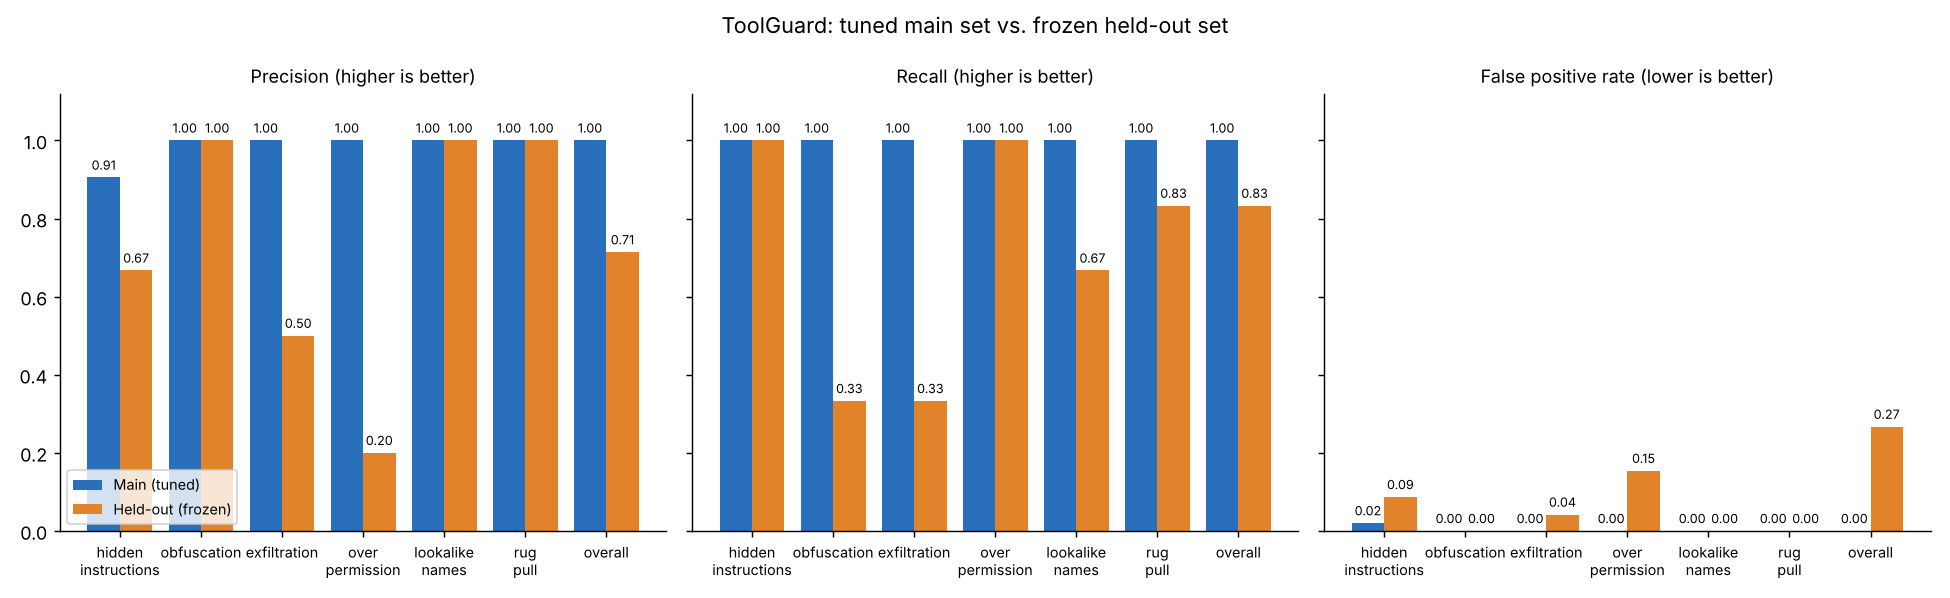
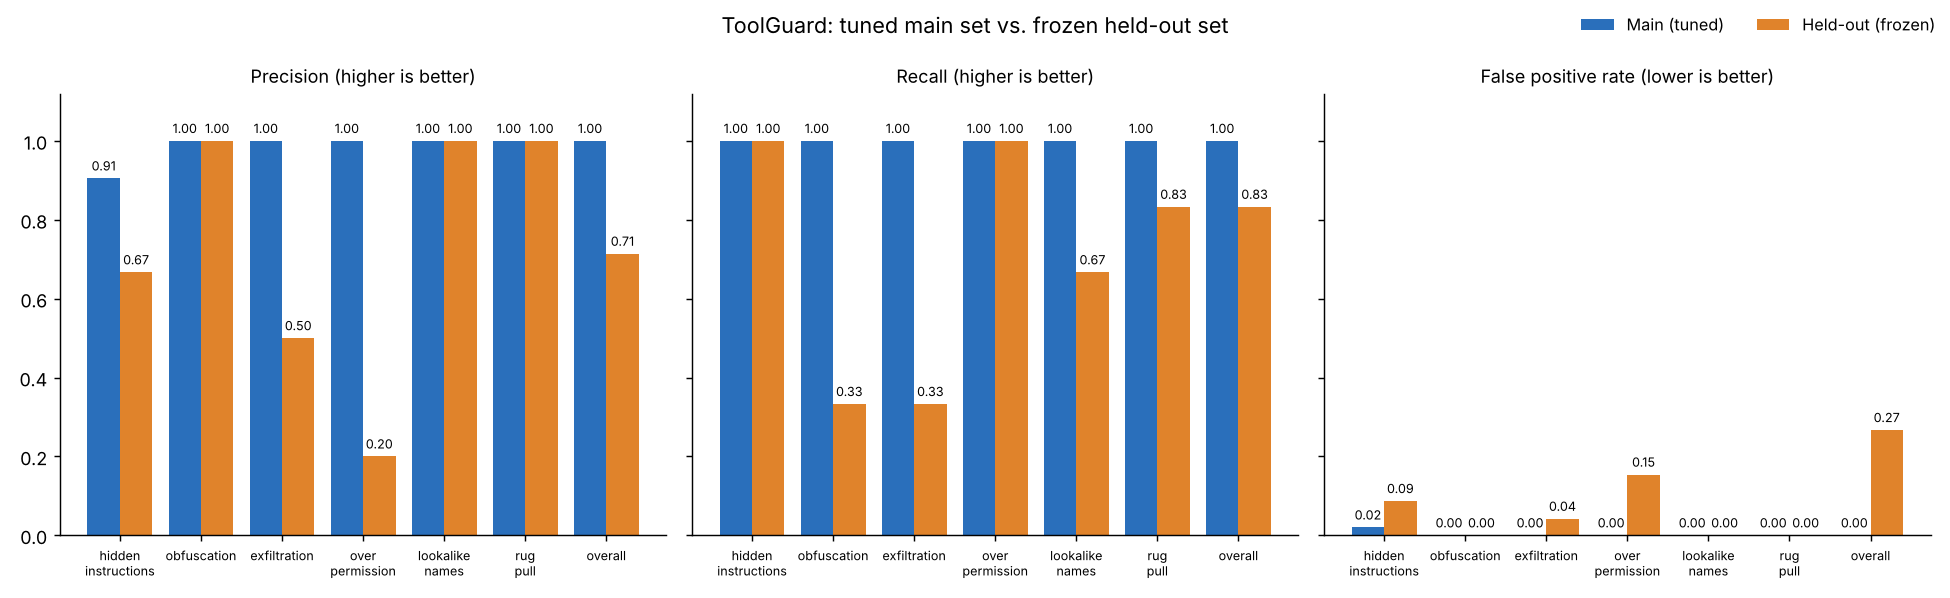
M7: Streamlit app (scanner, rug-pull demo, results)
Claude-Session: https://claude.ai/code/session_01NrWAax3T78agCETAbURUrn

diff --git a/app/streamlit_app.py b/app/streamlit_app.py
@@ -1,0 +1,138 @@
+"""ToolGuard web app.  Run:  streamlit run app/streamlit_app.py"""
+import html
+import json
+import sys
+from pathlib import Path
+
+import pandas as pd
+import streamlit as st
+
+ROOT = Path(__file__).resolve().parent.parent
+sys.path.insert(0, str(ROOT))
+
+from toolguard.checks import reveal  # noqa: E402
+from toolguard.loader import parse_server  # noqa: E402
+from toolguard.lockfile import create_lock  # noqa: E402
+from toolguard.scoring import scan_server  # noqa: E402
+
+BADGE = {"Low": "🟢", "Medium": "🟡", "High": "🔴"}
+SEV_ICON = {"low": "🟢", "medium": "🟡", "high": "🔴"}
+
+st.set_page_config(page_title="ToolGuard", page_icon="🛡", layout="wide")
+
+
+def highlight(text: str, evidence: list[str]) -> str:
+    """HTML-escape text (invisible characters made visible) and wrap evidence in <mark>."""
+    shown = reveal(text)
+    spans = []
+    for ev in evidence:
+        ev = reveal(ev)
+        start = shown.find(ev) if ev else -1
+        if start >= 0:
+            spans.append((start, start + len(ev)))
+    out, pos = [], 0
+    for start, end in sorted(spans):
+        if start < pos:
+            continue
+        out.append(html.escape(shown[pos:start]))
+        out.append(f"<mark>{html.escape(shown[start:end])}</mark>")
+        pos = end
+    out.append(html.escape(shown[pos:]))
+    return "<div style='white-space:pre-wrap'>" + "".join(out) + "</div>"
+
+
+def show_findings(tool, report):
+    for location, text in tool.texts():
+        evidence = [f.evidence for f in report.findings if f.location == location and f.evidence]
+        if evidence:
+            st.markdown(f"**{location}**")
+            st.markdown(highlight(text, evidence), unsafe_allow_html=True)
+    for f in report.findings:
+        st.markdown(f"{SEV_ICON[f.severity]} **{f.check.replace('_', ' ')}** ({f.severity}) - {f.reason}")
+        if f.check == "rug_pull" and f.evidence:
+            st.code(f.evidence, language="diff")
+
+
+def show_server(server, lock=None):
+    report = scan_server(server, lock)
+    c1, c2, c3 = st.columns(3)
+    c1.metric("Server risk", f"{BADGE[report.level]} {report.level}")
+    c2.metric("Score", f"{report.score:.1f} / 10")
+    c3.metric("Tools flagged", sum(1 for t in report.tools if t.level != "Low"))
+    by_name = {t.name: t for t in server.tools}
+    for tr in sorted(report.tools, key=lambda r: -r.score):
+        with st.expander(f"{BADGE[tr.level]} {tr.name} - {tr.level} ({tr.score:.0f})", expanded=tr.level != "Low"):
+            if not tr.findings:
+                st.write("No findings.")
+            show_findings(by_name[tr.name], tr)
+    for f in report.notes:
+        st.info(f"{f.tool}: {f.reason}")
+
+
+def sample_files(folder):
+    return sorted((ROOT / folder).glob("*.json"))
+
+
+# ------------------------------------------------------------------ pages
+def page_scanner():
+    st.title("🛡 Scanner")
+    st.write("Upload a tool-definition JSON file or pick a sample (all samples are fictional).")
+    upload = st.file_uploader("Tool-definition JSON", type="json")
+    sample = st.selectbox("...or pick a sample server", sample_files("data/servers"), format_func=lambda p: p.stem)
+    try:
+        data = json.load(upload) if upload else json.loads(sample.read_text(encoding="utf-8"))
+        server = parse_server(data, upload.name if upload else str(sample))
+    except (ValueError, json.JSONDecodeError) as err:
+        st.error(f"Could not read that file: {err}")
+        return
+    st.subheader(server.name)
+    show_server(server)
+
+
+def page_rugpull():
+    st.title("🪤 Rug-pull demo")
+    st.write("A server is approved, and ToolGuard locks a fingerprint of every tool. Later the server changes. "
+             "Pick a scenario to compare the locked version with the modified one.")
+    path = st.selectbox("Scenario", sample_files("data/rugpull"), format_func=lambda p: p.stem)
+    pair = json.loads(path.read_text(encoding="utf-8"))
+    locked, modified = parse_server(pair["locked"]), parse_server(pair["modified"])
+    lock = create_lock([locked])
+    left, right = st.columns(2)
+    left.subheader("Locked version")
+    left.json(pair["locked"]["tools"][0])
+    right.subheader("Modified version")
+    right.json(pair["modified"]["tools"][0])
+    st.caption("Whitespace, key order and version-number changes are ignored. Typo-level edits show as low severity.")
+    st.subheader("What ToolGuard reports")
+    show_server(modified, lock)
+
+
+def page_results():
+    st.title("📊 Results")
+    st.markdown(
+        "**About.** ToolGuard statically scans tool definitions (name, description, input schema, permissions) for "
+        "tool poisoning, hidden text, data exfiltration, over-permission, look-alike names and rug pulls. "
+        "All data is synthetic. The **main** set was used while building the detectors, so its numbers are *tuned* "
+        "(optimistic). The **held-out** set was written after the detectors were frozen and never used for tuning, "
+        "so it is the honest estimate. Both are small, so treat the numbers as indicative.")
+    files = {"Main set (tuned)": ROOT / "results/results.json", "Held-out set (frozen, not tuned)": ROOT / "results/heldout_results.json"}
+    for title, path in files.items():
+        if not path.exists():
+            st.warning(f"{path.name} not found. Run `python -m toolguard.evaluate main`.")
+            continue
+        res = json.loads(path.read_text())
+        st.subheader(f"{title}: {res['n_tools']} tools, {res['n_malicious']} malicious")
+        rows = {**res["checks"], "overall (tool level)": res["overall"]}
+        st.dataframe(pd.DataFrame(rows).T[["tp", "fp", "fn", "tn", "precision", "recall", "fpr"]])
+        rd = res["rug_pull_detail"]
+        st.write(f"Rug pull: benign changes wrongly flagged: **{rd['benign_wrongly_flagged']}**")
+        st.dataframe(pd.DataFrame(rd["benign_by_change"]).T)
+    chart = ROOT / "results/comparison.png"
+    if chart.exists():
+        st.image(str(chart), caption="Tuned main set vs. frozen held-out set")
+
+
+PAGES = {"Scanner": page_scanner, "Rug-pull demo": page_rugpull, "Results": page_results}
+choice = st.sidebar.radio("Page", list(PAGES))
+st.sidebar.caption("Static analysis only. Synthetic data. For defensive use.")
+PAGES[choice]()

diff --git a/toolguard/evaluate.py b/toolguard/evaluate.py
@@ -145,11 +145,12 @@ def make_chart() -> Path:
             ax.bar([i + offset for i in range(len(names))], [v or 0 for v in vals], 0.4, color=color, label=label)
             for i, v in enumerate(vals):
                 ax.text(i + offset, (v or 0) + 0.02, "n/a" if v is None else f"{v:.2f}", ha="center", fontsize=7)
-        ax.set_xticks(range(len(names)), [n.replace("_", "\n") for n in names], fontsize=8)
+        ax.set_xticks(range(len(names)), [n.replace("_", "\n") for n in names], fontsize=7)
         ax.set_title(title, fontsize=10)
         ax.set_ylim(0, 1.12)
         ax.spines[["top", "right"]].set_visible(False)
-    axes[0].legend(loc="lower left", fontsize=8)
+    handles, labels_ = axes[0].get_legend_handles_labels()
+    fig.legend(handles, labels_, loc="upper right", ncol=2, fontsize=9, frameon=False)
     fig.suptitle("ToolGuard: tuned main set vs. frozen held-out set", fontsize=12)
     fig.tight_layout()
     out = RESULTS / "comparison.png"
